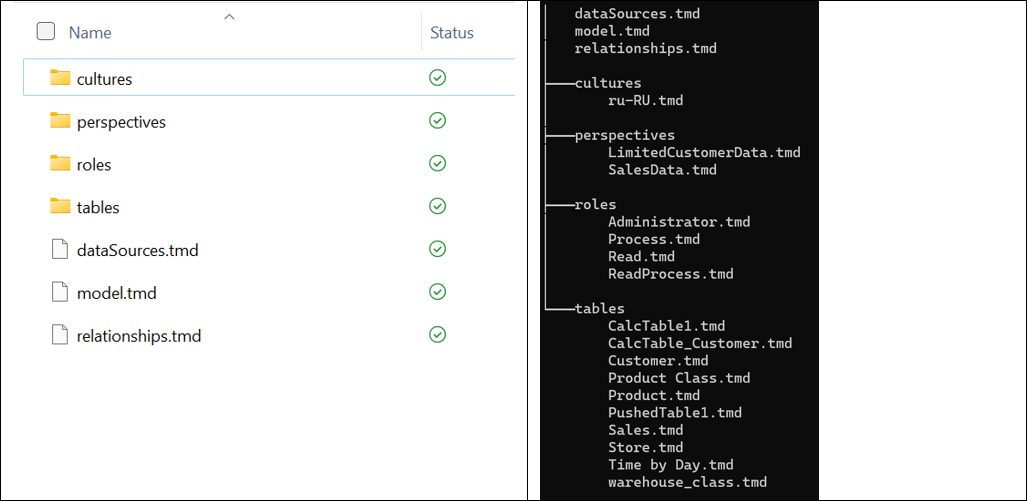
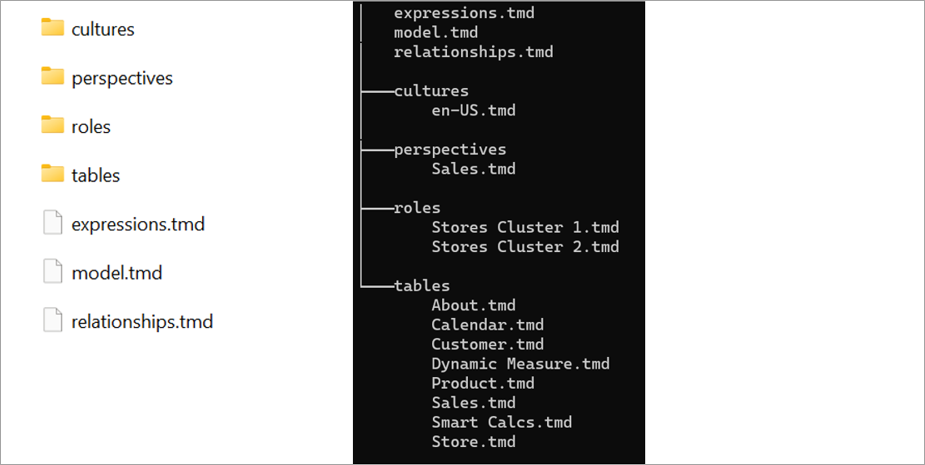
Revisions.

diff --git a/docs/analysis-services/tmdl/tmdl-overview.md b/docs/analysis-services/tmdl/tmdl-overview.md
@@ -1,7 +1,7 @@
 ---
 title: "Tabular Model Definition Language (TMDL) | Microsoft Docs"
 description: Learn about Tabular Model Definition Language (TMDL)
-ms.date: 03/30/2023
+ms.date: 04/07/2023
 ms.service: analysis-services
 ms.custom: tmdl
 ms.topic: conceptual
@@ -42,9 +42,16 @@ table Sales
             let
                 Source = Sql.Database(Server, Database)
                 …
+    
     measure 'Sales Amount' = SUMX('Sales', 'Sales'[Quantity] * 'Sales'[Net Price])
         formatString:= $ #,##0
-    
+   
+    column ProductKey
+        dataType: Int64
+        isHidden
+        sourceColumn: ProductKey
+        summarizeBy: None
+ 
     column Quantity
         dataType: Int64
         isHidden
@@ -150,7 +157,7 @@ Unlike TMSL, TMDL implements a folder structure. The default folder structure ha
 
 And *root files* for:
 
-- dataSources
+- expressions
 - model
 - relationships
 
@@ -161,12 +168,11 @@ Here's an example of a TMDL folder:
 Definitions include:
 
 - One file for model definition.
-- One file for all relationships in the model.
-- One file for each culture linguistic schema.
-- One file for each translation (in CSV format) along side culture linguistic schema.
-- One file for each perspective.
-- One file for each role.
-- One file for each table.
+- One file for *all* relationships in the model.
+- One file for *each* culture linguistic schema.
+- One file for *each* perspective.
+- One file for *each* role.
+- One file for *each* table.
 - All inner metadata properties of tables (Column, Hierarchies, Partitions,…)  metadata lives in the parent table TMD file.
 
 ## TMDL language
@@ -208,7 +214,7 @@ table Sales
 
 ```
 
-### Partial  declaration
+#### Partial  declaration
 
 TMDL doesn't force object declaration in the same document. It is, however, similar to [C# partial classes](/dotnet/csharp/programming-guide/classes-and-structs/partial-classes-and-methods) where it's possible split the object definition between multiple files. For example, it's possible to declare a table definition in a [table].tmd file and then have all the measures from all tables defined in a single [measures].tmd file, like shown here:
 
@@ -249,6 +255,51 @@ perspective Perspective1
             column: 'Table1'.'Col 2'
 ```
 
+### Indentation
+
+TMDL uses strict whitespace indentation rules for denoting structure of the TOM hierarchy. A TMDL project uses a default single **tab** indentation rule.
+
+Within a TMDL document, indentation is applied:
+
+- Between an object section header and the object’s properties (table -> properties).
+
+    ```tmdl
+    table Sales
+        lineageTag: 9a48bea0-e5fb-40fa-9e81-f61288e31a02
+    ```
+
+- Between an object and its child objects (table -> measures).
+
+    ```tmdl
+    table Sales
+    
+        measure 'Sales Amount' = SUMX('Sales', [Quantity] * [Net Price])
+    
+        measure 'Total Quantity' = SUM('Sales'[Quantity])
+    ```
+
+- Between a struct property and its respective properties (table -> refreshPolicy -> properties).
+
+    ```tmdl
+    table Sales
+        lineageTag: 97143e5b-7736-4fcb-8042-26b92b1f5684
+        refreshPolicy:
+            incrementalGranularity: Month
+    ```
+
+The following are direct child objects of Model and don't need to be indented because they are implicitly assumed nested under the root Model:
+
+- tables
+- shared expressions
+- roles
+- cultures
+- perspectives
+- relationships
+- data sources
+- query groups
+- model-level annotations
+- model-level extended properties
+
 ### Descriptions
 
 TMDL syntax supports descriptions. For model documentation purposes, it's considered a best practice to provide descriptions for each TOM object. TMDL treats descriptions as a special property with explicit syntax support. Following the examples from many other languages, descriptions are provided on top of each object declaration using triple-slash  (**///**) syntax.
@@ -278,7 +329,7 @@ Supported syntax:
 - The value is specified on the same line as the section header.
 - The value is specified  as a multi-line block following the section header.
 
-In the following example, `Measure1` is single line and `Measure2` is a multi-line block:
+In the following example, `Measure1` is single line and `Measure2` is multi-line:
 
 ```tmdl
 table Table1
@@ -327,6 +378,30 @@ Default property and expression language by object type include the following:
 |DataSource    |    Type     |    [DataSourceType Enum](/dotnet/api/microsoft.analysisservices.tabular.datasourcetype?view=analysisservices-dotnet&preserve-view=true)     |
 |Partition     |    SourceType     |    [PartitionSourceType Enum](/dotnet/api/microsoft.analysisservices.tabular.partitionsourcetype?view=analysisservices-dotnet&preserve-view=true)     |
 |ChangedProperty     |   Property      |    [Property Text](/dotnet/api/microsoft.analysisservices.tabular.changedproperty.property?view=analysisservices-dotnet&preserve-view=true#microsoft-analysisservices-tabular-changedproperty-property)     |
+
+### Scalar values
+
+Object property values are provided following the colon (**:**) delimiter. For example:
+
+```tmdl
+table Product
+    lineageTag: e9374b9a-faee-4f9e-b2e7-d9aafb9d6a91
+    ordinal: 3
+
+    column Product
+        dataType: String
+        isDataTypeInferred: false
+        isHidden
+        lineageTag: da435585-1f9a-44bd-ba2c-34c98f298cfc
+        sourceColumn: Product
+        summarizeBy: None
+```
+
+The following rules apply to scalar values:
+
+- Text property scalar values are enclosed in double quotes (**"**) when the text contains special characters like spaces, quotes, or double quotes.
+- If the value has double quotes within it, it must be escaped. For example, `"""folder with quotes""\'SubFolder'"`. Leading and trailing double quotes are removed during deserialization.
+- Boolean properties can be set by using standard key/value pair syntax (`'isDataTypeInferred'`) or by using a shortcut syntax where only the property name needs to be declared. No value is set. `true` is implicitly applied ('isHidden').
 
 ### Expressions
 
@@ -433,9 +508,9 @@ Child objects don't have to be contiguous. You can declare columns and measures 
 
 ## Considerations and limitations
 
-- line item.
-- line item.
-- line item.
+- RoleMember
+- Translations as CSV files
+- Backtick (\`) expression block syntax
 
 ## What's next?
 

diff --git a/docs/analysis-services/tmdl/tmdl-how-to.md b/docs/analysis-services/tmdl/tmdl-how-to.md
@@ -1,7 +1,7 @@
 ---
 title: "Get started with Tabular Model Definition Language (TMDL) | Microsoft Docs"
 description: Learn how to get started using the Tabular Model Definition Language (TMDL)
-ms.date: 03/30/2023
+ms.date: 04/07/2023
 ms.service: analysis-services
 ms.custom: tmdl
 ms.topic: conceptual
@@ -19,9 +19,9 @@ author: minewiskan
 
 Before getting started with this article, be sure to thoroughly understand concepts described in [Tabular Model Definition Language (TMDL) overview](tmdl-overview.md).
 
-The easiest way to explore TMDL is to reference the preview Nuget package and use the API methods to serialize and deserialize to and from TMDL.
+The easiest way to explore TMDL is to reference the **Preview Nuget package** and use the API methods to serialize and deserialize to and from TMDL.
 
-[Get the preview Nuget package](https://go.microsoft.com/fwlink/?linkid=2230930)
+[Get the **Preview Nuget package**](/analysis-services/client-libraries?view=asallproducts-allversions&preserve-view=true#nuget-packages)
 
 ## Get a TMDL model representation
 
